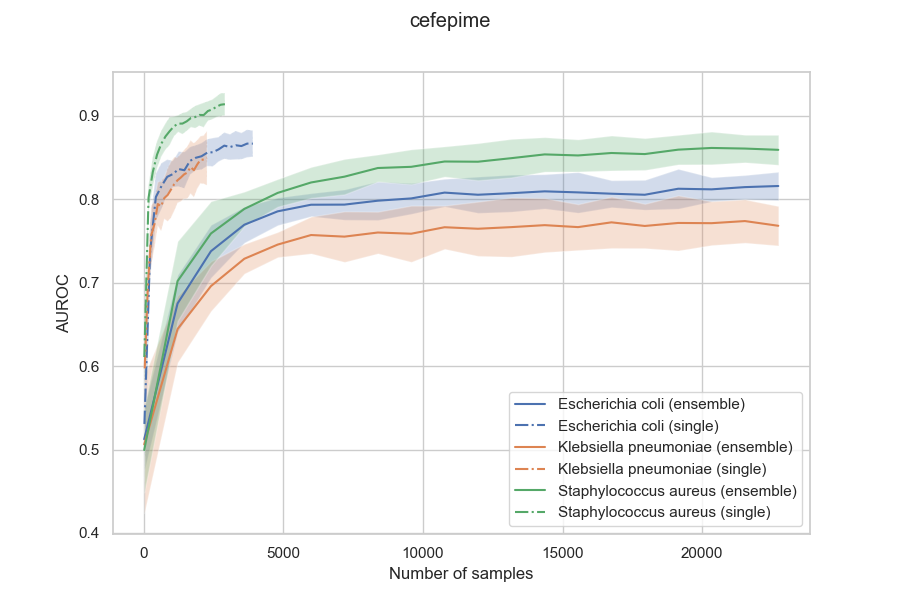
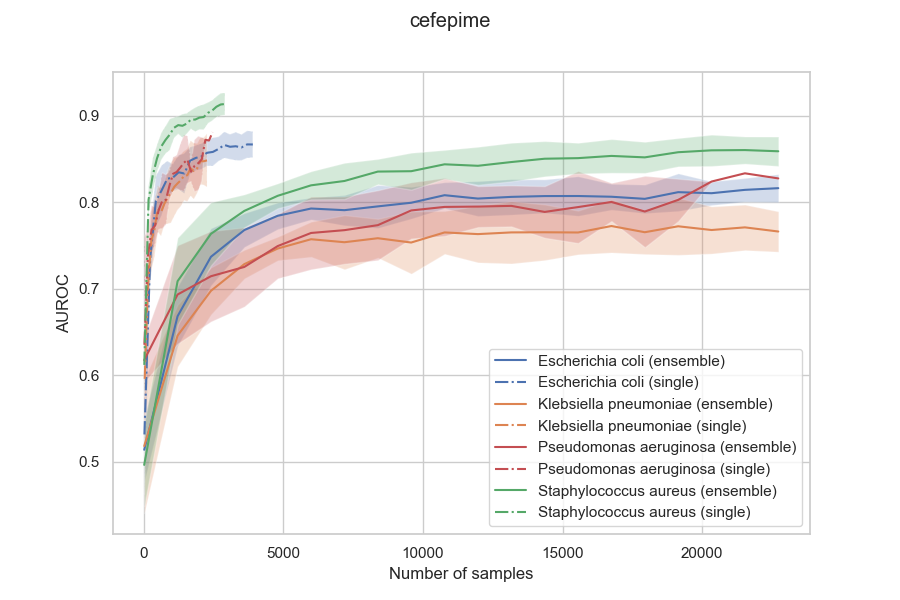
update ensemble figures with new data

Changed region(s): [[0.0933, 0.18, 0.9022, 0.87], [0.0933, 0.87, 0.1244, 0.9], [0.0933, 0.45, 0.1244, 0.48]]

diff --git a/amr_maldi_ml/plot_fig3_ensemble_curves.py b/amr_maldi_ml/plot_fig3_ensemble_curves.py
@@ -95,6 +95,7 @@ def plot_curves(df, outdir, metric='auroc'):
         'Escherichia coli',
         'Klebsiella pneumoniae',
         'Staphylococcus aureus',
+        'Pseudomonas aeruginosa',
     ]
 
     species_to_colour = {
@@ -170,7 +171,7 @@ if __name__ == '__main__':
 
         antibiotic = data['antibiotic']
 
-        _add_or_compare(data['metadata_versions'])
+        #_add_or_compare(data['metadata_versions'])
 
         row = {
             key: data[key] for key in data.keys() if key not in skip_keys
